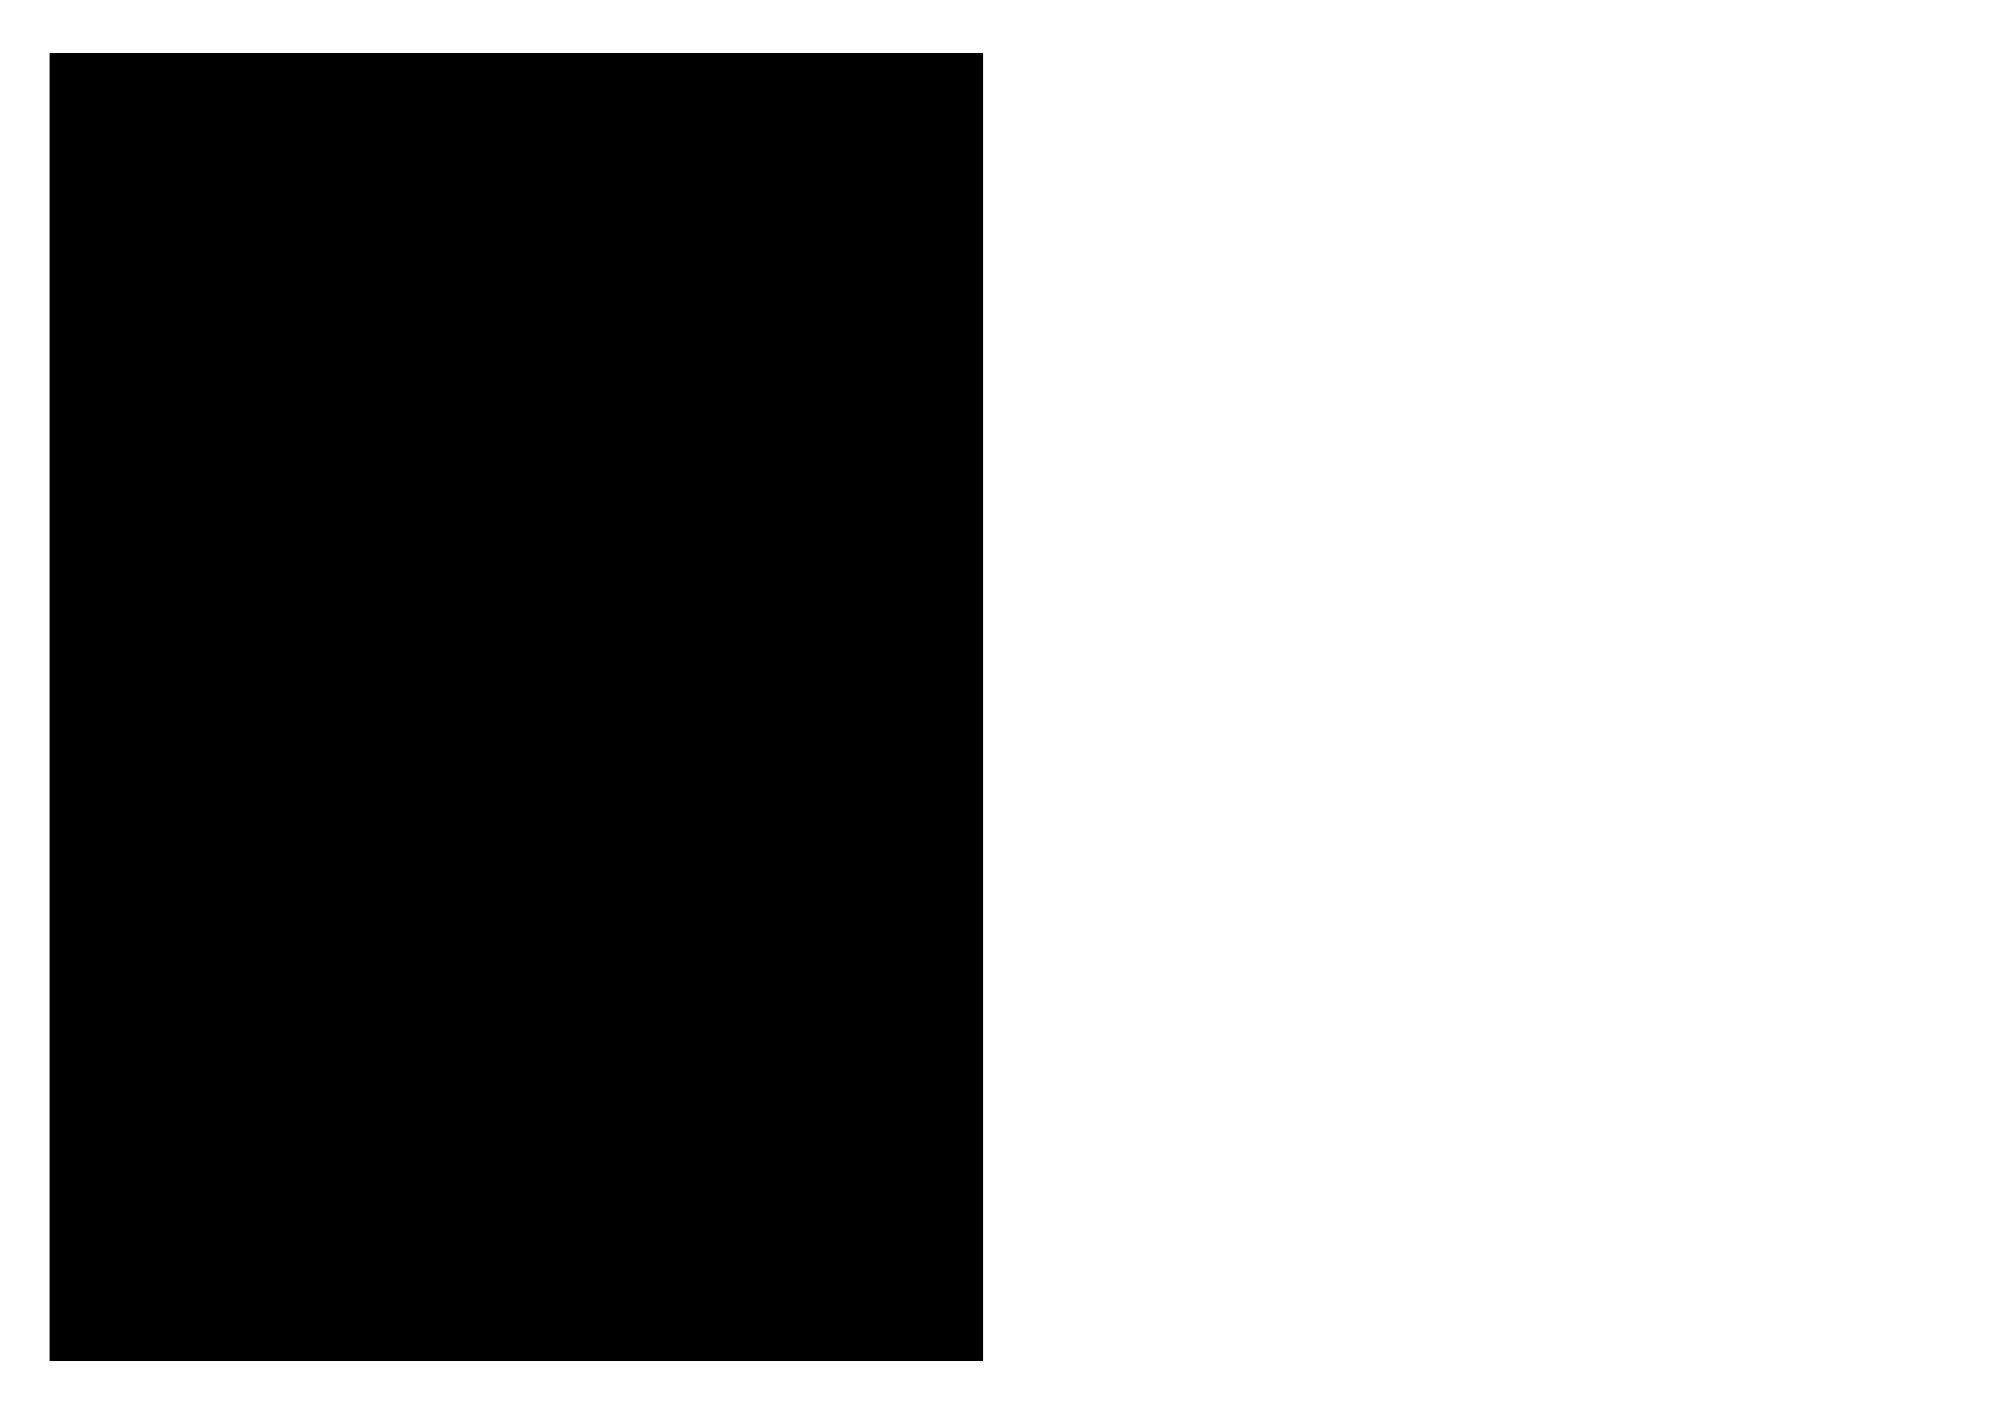
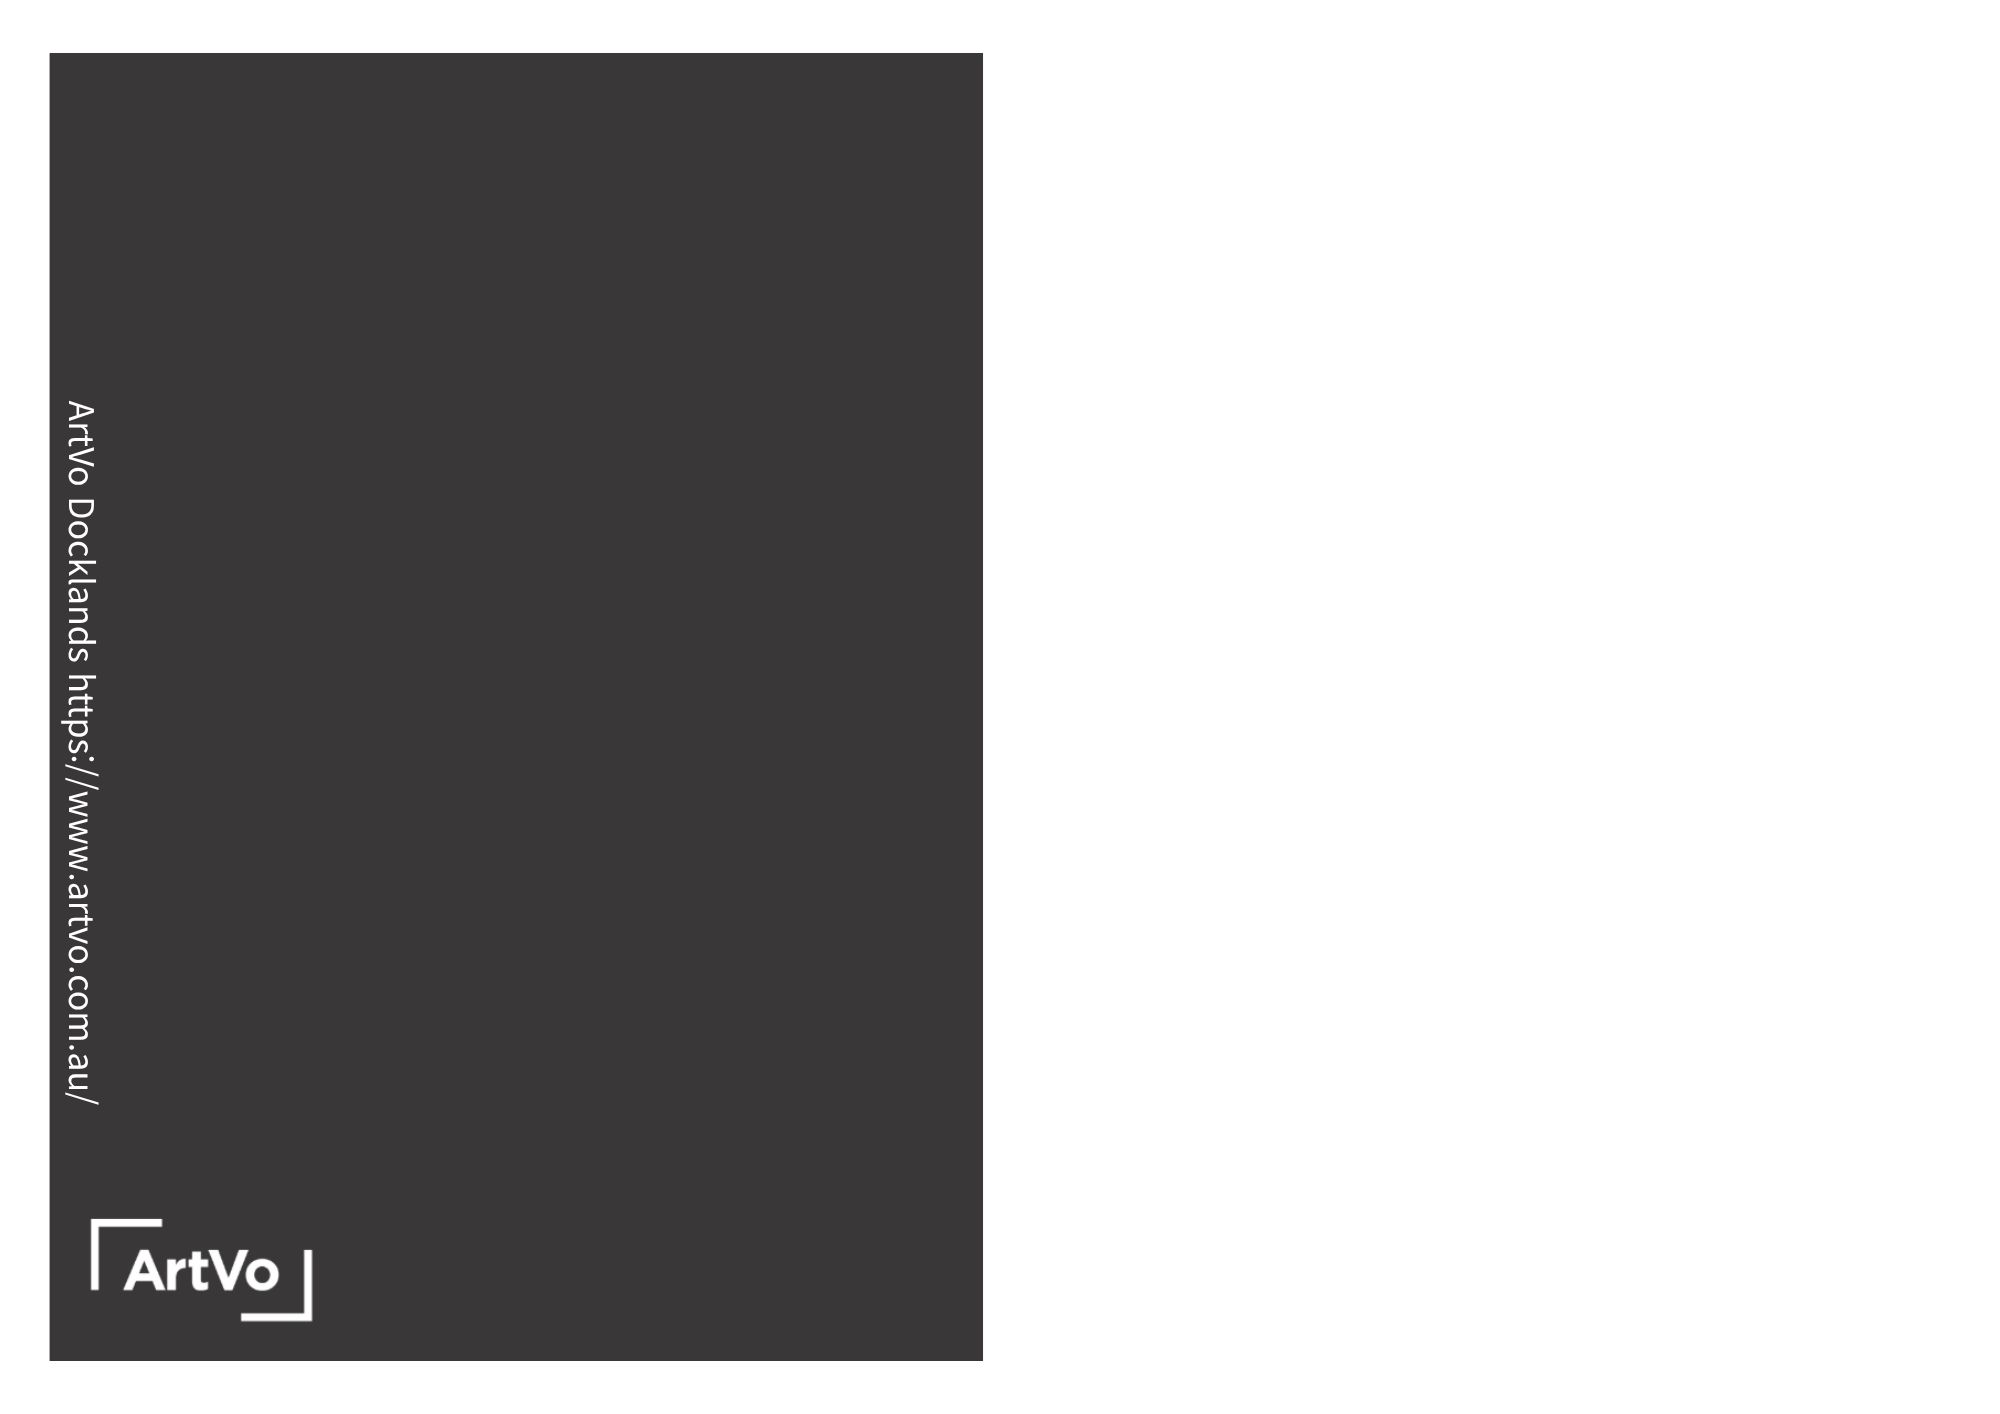
added messages and adjusted photo size

diff --git a/templates/index.html b/templates/index.html
@@ -21,9 +21,13 @@
 
         <br><br>
 
+        <label>Message</label><br>
+        <input type="text" name="message" placeholder="Write your message"><br><br>
+
         <button type="submit">Create Photo Strip</button>
 
     </form>
+
 
 </body>
 </html>

diff --git a/app.py b/app.py
@@ -1,5 +1,5 @@
 from flask import Flask, render_template, request, send_file
-from PIL import Image, ImageOps
+from PIL import Image, ImageOps, ImageDraw, ImageFont
 from datetime import datetime
 import os
 
@@ -18,11 +18,13 @@ def home():
     if request.method == "POST":
 
         template = Image.open("template.jpg").convert("RGB")
-
+        
+        message = request.form["message"]
+        
         slots = {
-            "photo1": (60, 60, 880, 520),
-            "photo2": (60, 610, 520, 520),
-            "photo3": (610, 610, 330, 330),
+            "photo1": (109, 90, 809, 516),
+            "photo2": (109, 635, 448, 561),
+            "photo3": (590, 635, 330, 492)
         }
 
         for name, slot in slots.items():
@@ -43,7 +45,35 @@ def home():
         filename = f"result_{datetime.now().strftime('%Y%m%d_%H%M%S')}.jpg"
         output_path = os.path.join(OUTPUT_FOLDER, filename)
 
+        draw = ImageDraw.Draw(template)
+
+        font_date = ImageFont.truetype("arial.ttf", 32)
+        font_message = ImageFont.truetype("arial.ttf", 28)
+
+        date_text = datetime.now().strftime("%Y.%m.%d")
+
+        draw.text(
+            (760, 1180),
+            date_text,
+            fill="white",
+            font=font_date
+        )
+
+        bbox = draw.textbbox((0, 0), message, font=font_message)
+        text_width = bbox[2] - bbox[0]
+
+        right_edge = 920
+        x_position = right_edge - text_width
+
+        draw.text(
+            (x_position, 1240),
+            message,
+            fill="white",
+            font=font_message
+        )
+
         template.save(output_path)
+
 
         return render_template("submitted.html")
 
